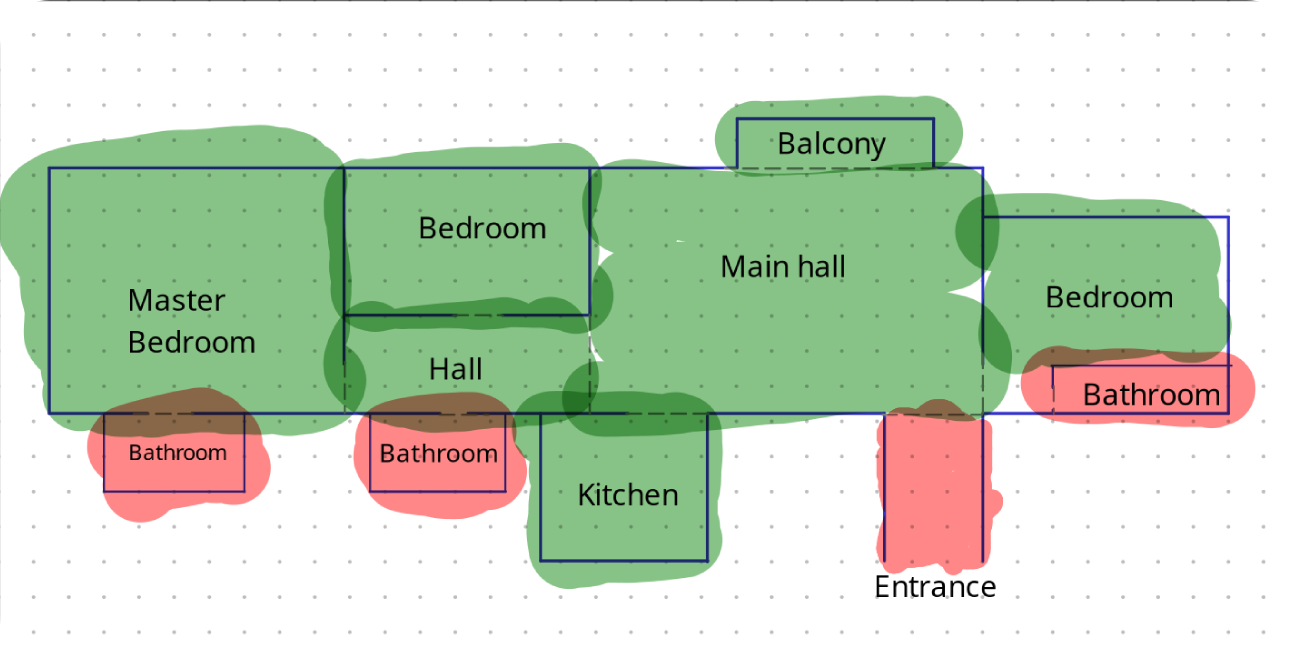
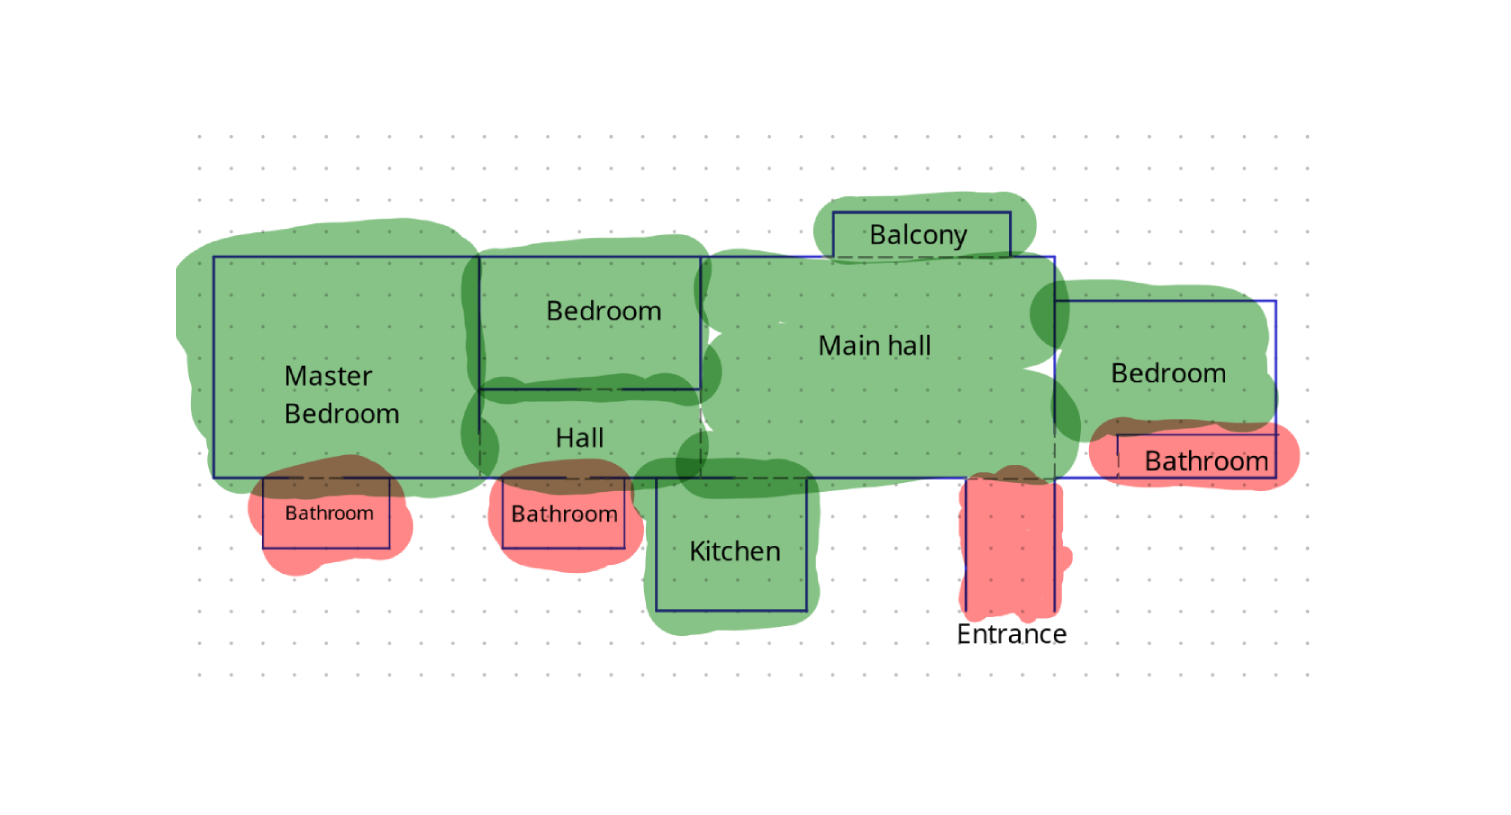
Image Revisions

diff --git a/projects.html b/projects.html
@@ -32,16 +32,13 @@
 
       <article class="project-feature">
         <figure class="project-photo">
-          <img src="assets/Smart%20Exit%20Checklist%20Display.png" alt="Smart Exit Checklist Display floor plan showing monitored rooms in green and areas needing attention in red">
+          <img src="assets/Smart%20Exit%20Checklist%20Display%20(1).png" alt="Smart Exit Checklist Display floor plan showing monitored rooms in green and areas needing attention in red">
           <figcaption>Smart Exit Checklist Display: a floor plan highlighting rooms checked and areas that still need attention.</figcaption>
         </figure>
         <div class="project-title-row">
           <div>
             <p class="eyebrow">ONGOING EXPLORATION <span class="eyebrow-divider">/</span> 2026–27</p>
             <h2>Your Home's energy,<br><em>at a glance.</em></h2>
-          </div>
-          <span class="project-number">PROJECT 01</span>
-        </div>
 
         <div class="project-details">
           <section class="detail-block">
